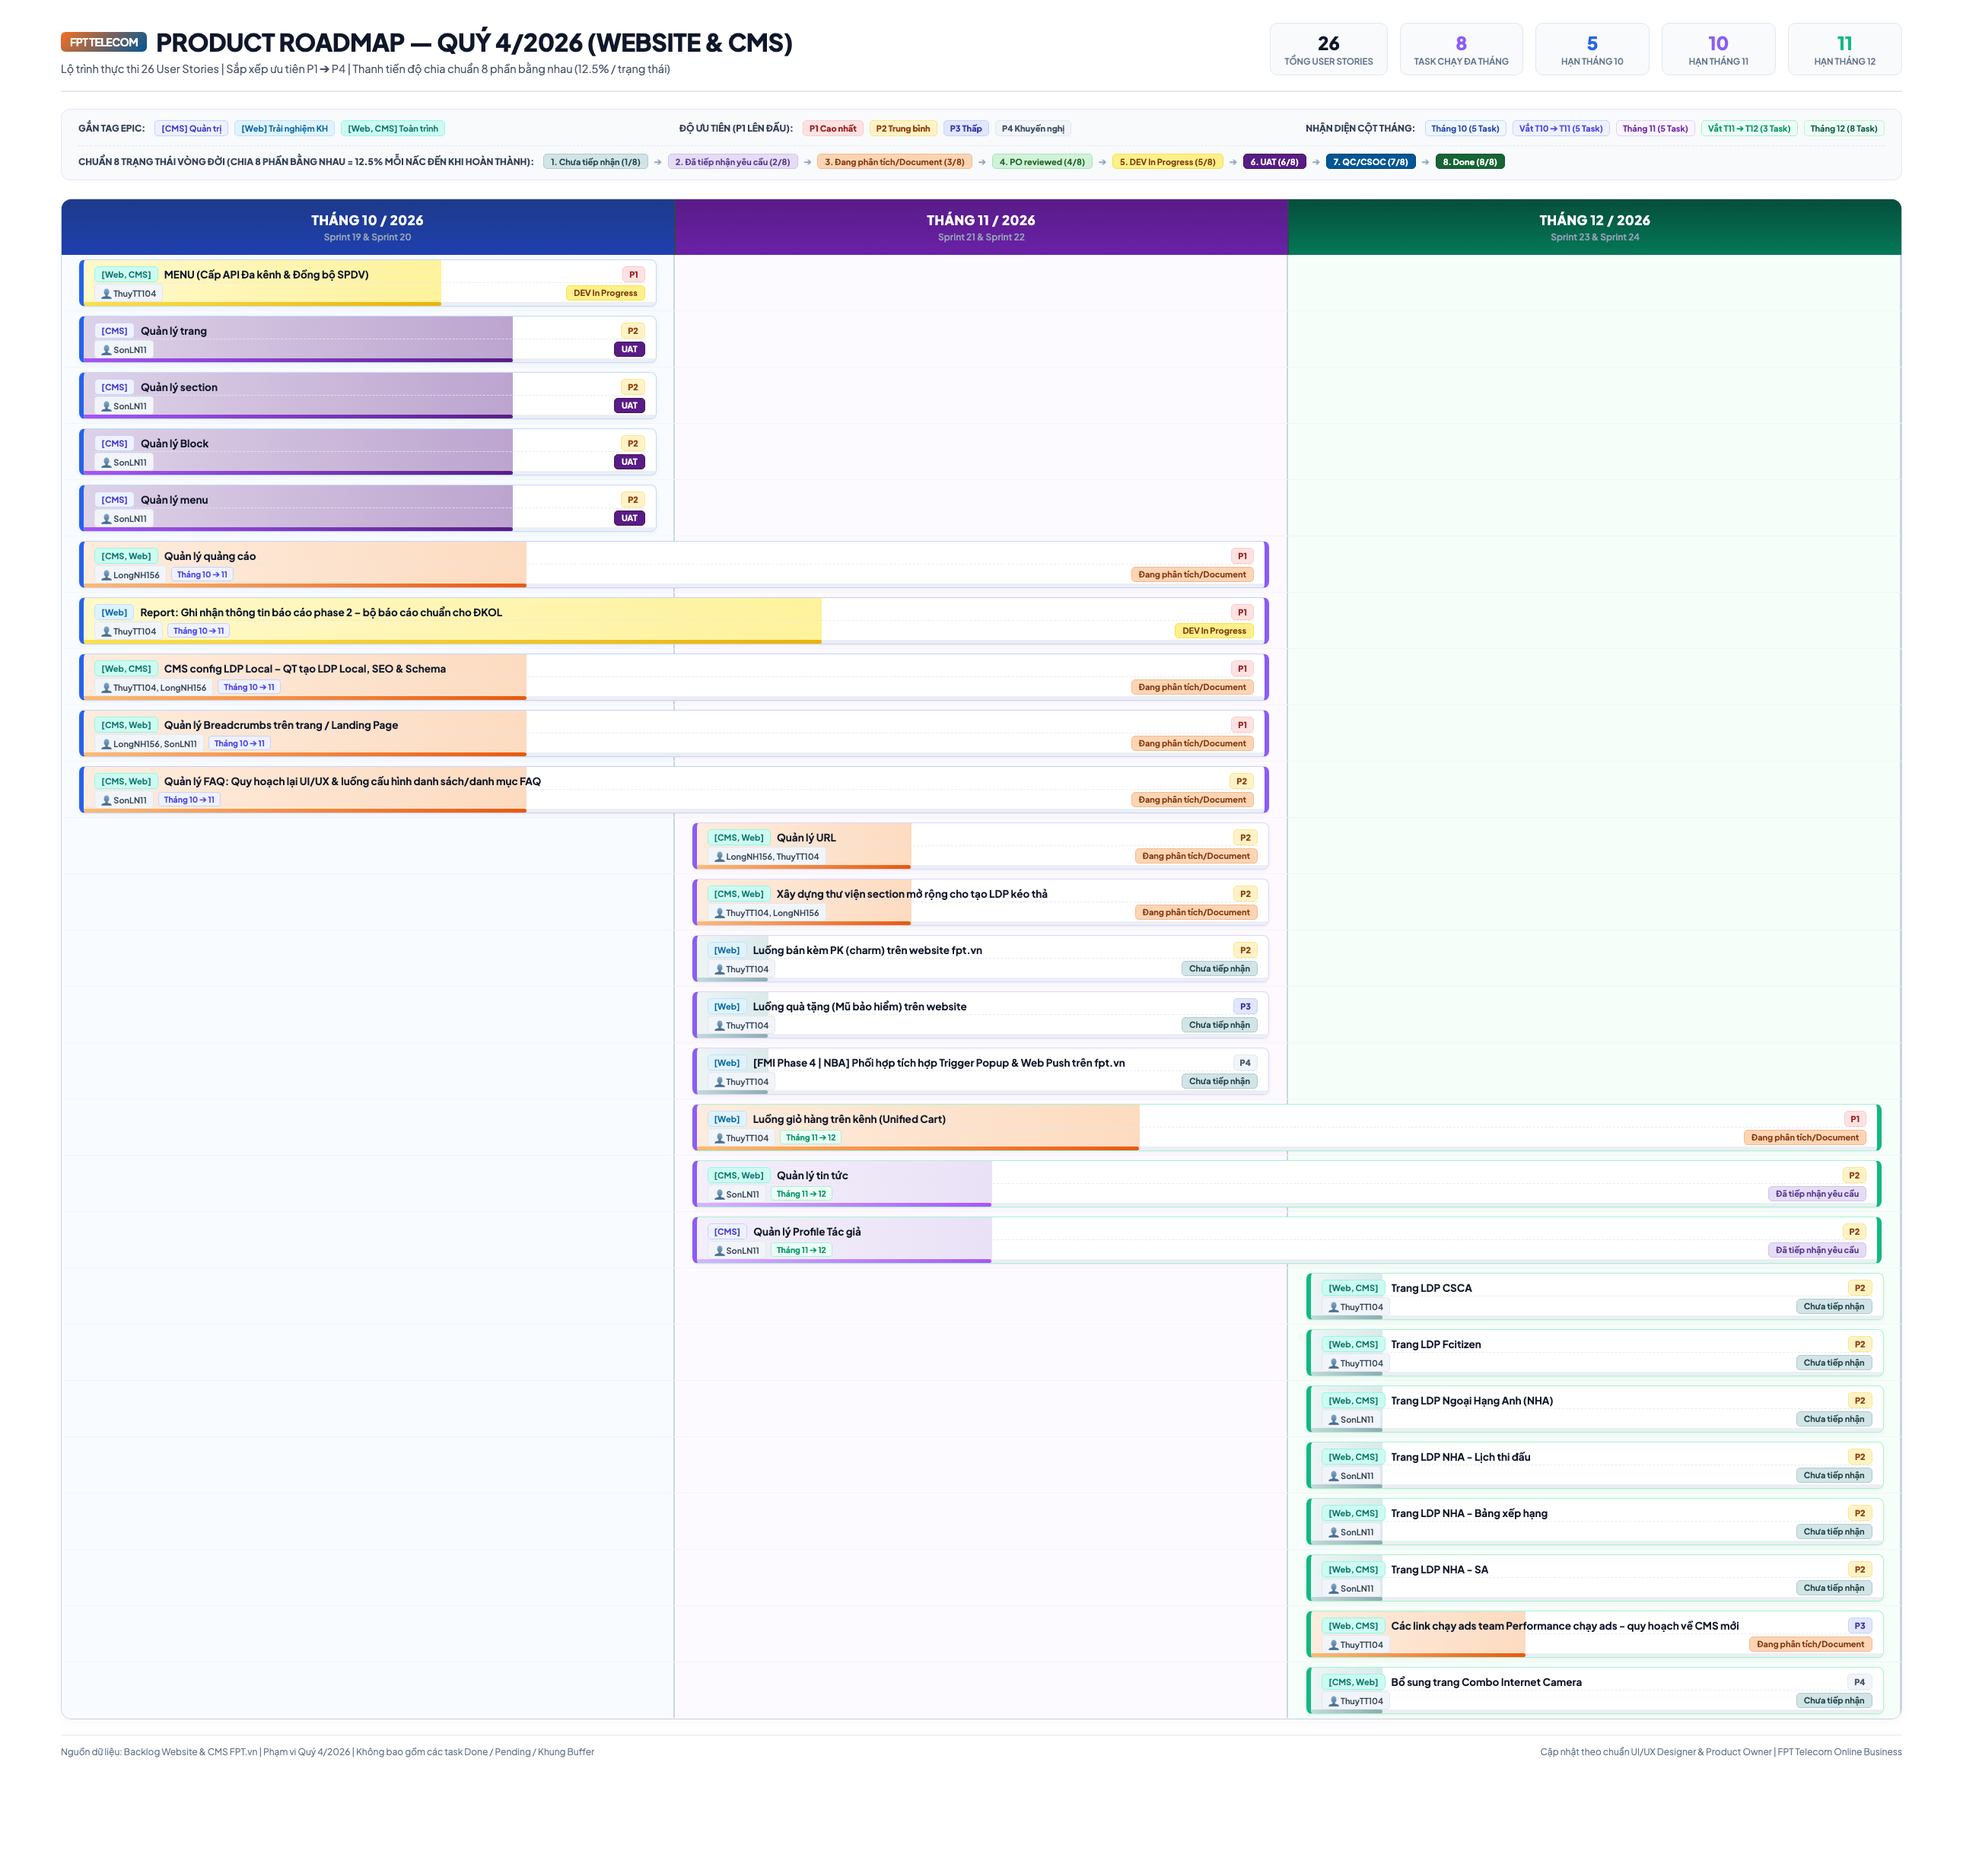
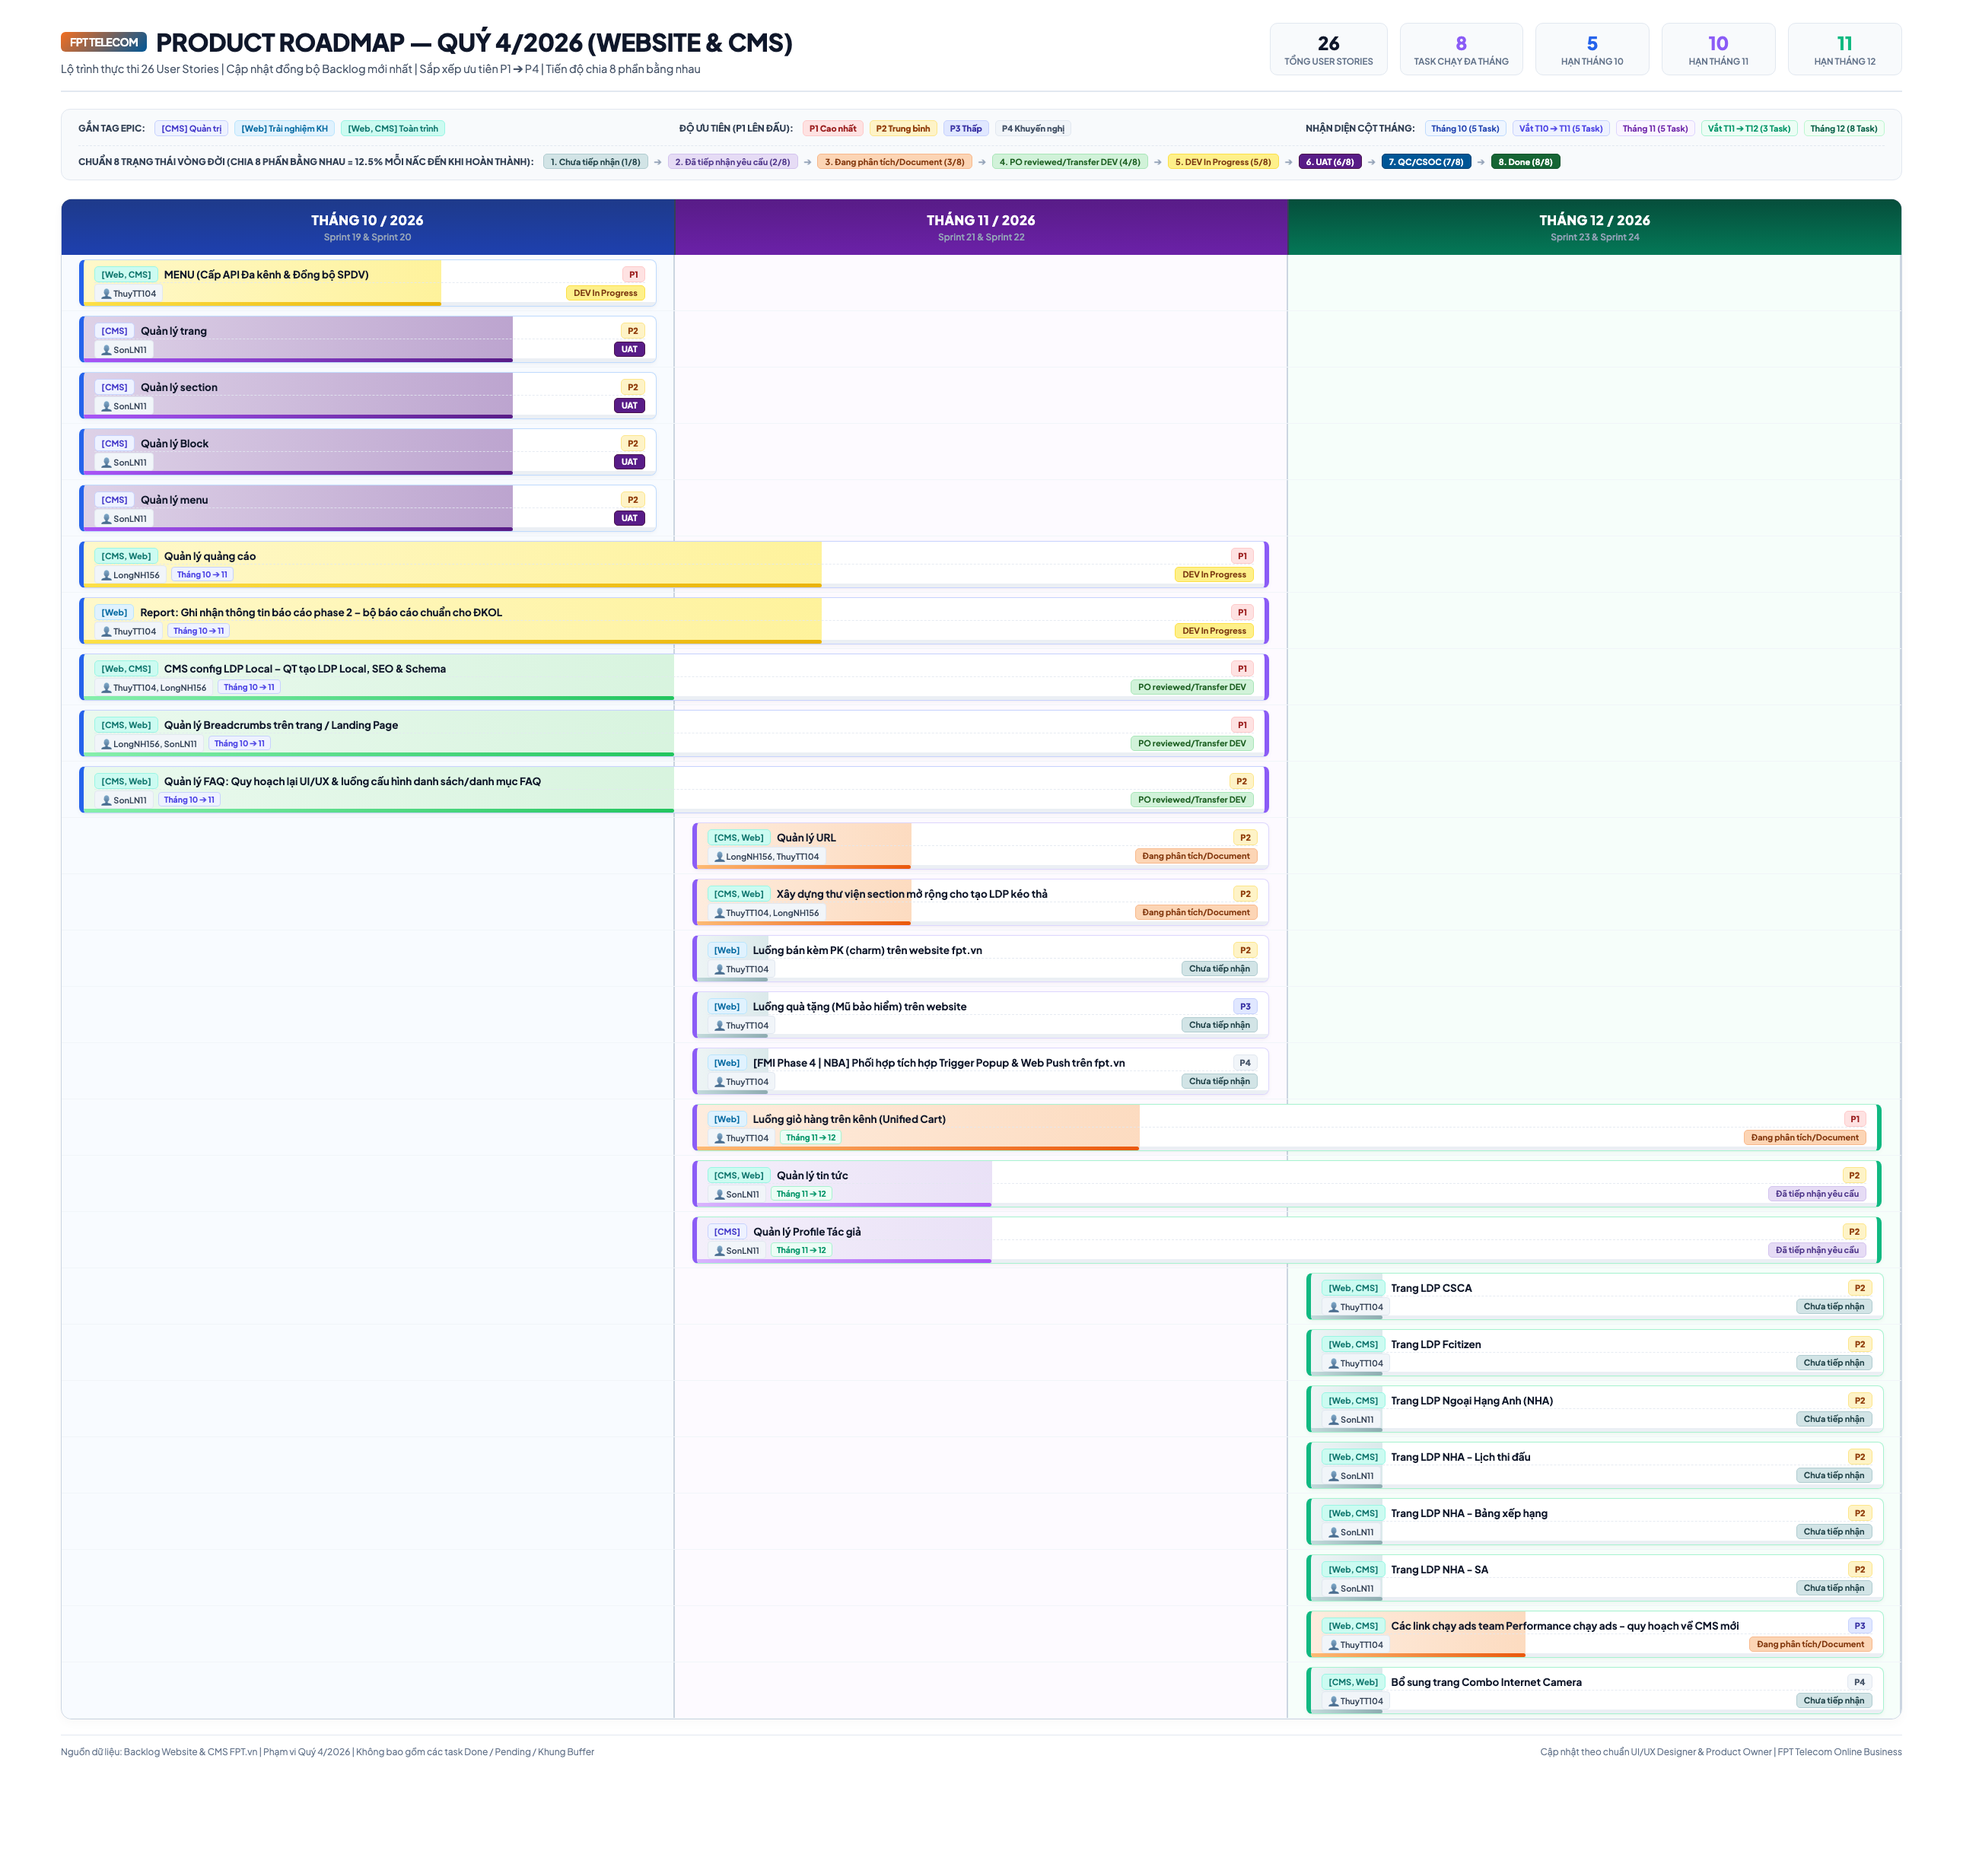
fix(roadmap): dong bo 100% trang thai moi nhat tu Google Sheet (PO reviewed/Transfer DEV va DEV In Progress)

diff --git a/thuyttdoc/roadmap_q4_2026.html b/thuyttdoc/roadmap_q4_2026.html
@@ -2,7 +2,7 @@
 <html lang="vi">
 <head>
 <meta charset="UTF-8">
-<title>Product Roadmap Q4/2026 - Timeline Tiến Trình Tháng (Chuẩn Tỷ Lệ 8 Phần Bằng Nhau)</title>
+<title>Product Roadmap Q4/2026 - Timeline Tiến Trình Tháng (Đồng Bộ Dữ Liệu Backlog Mới Nhất)</title>
 <style>
   @import url('https://fonts.googleapis.com/css2?family=Plus+Jakarta+Sans:wght@400;500;600;700;800&display=swap');
 
@@ -377,7 +377,7 @@
         <span class="fpt-badge">FPT TELECOM</span>
         PRODUCT ROADMAP — QUÝ 4/2026 (WEBSITE & CMS)
       </h1>
-      <p>Lộ trình thực thi 26 User Stories | Sắp xếp ưu tiên P1 ➔ P4 | Thanh tiến độ chia chuẩn 8 phần bằng nhau (12.5% / trạng thái)</p>
+      <p>Lộ trình thực thi 26 User Stories | Cập nhật đồng bộ Backlog mới nhất | Sắp xếp ưu tiên P1 ➔ P4 | Tiến độ chia 8 phần bằng nhau</p>
     </div>
     <div class="header-metrics">
       <div class="metric-card">
@@ -438,7 +438,7 @@
         <span class="step-arrow">➔</span>
         <span class="status-badge st-dang-phan-tich">3. Đang phân tích/Document (3/8)</span>
         <span class="step-arrow">➔</span>
-        <span class="status-badge st-po-reviewed">4. PO reviewed (4/8)</span>
+        <span class="status-badge st-po-reviewed">4. PO reviewed/Transfer DEV (4/8)</span>
         <span class="step-arrow">➔</span>
         <span class="status-badge st-dev-progress">5. DEV In Progress (5/8)</span>
         <span class="step-arrow">➔</span>
@@ -683,7 +683,7 @@
 
           <!-- Gantt Card Bar (2 Dòng, thanh tiến độ chia chuẩn đúng 8 phần bằng nhau, không hiện số %) -->
           <div class="gantt-card-wrap" style="left: 0.8%; width: 65.0%;">
-            <div class="task-card card-span-10-11" style="background-image: linear-gradient(90deg, rgba(252, 213, 181, 0.45) 0%, rgba(252, 213, 181, 0.85) 37.5%, rgba(255, 255, 255, 0) 37.5%);">
+            <div class="task-card card-span-10-11" style="background-image: linear-gradient(90deg, rgba(254, 240, 138, 0.45) 0%, rgba(254, 240, 138, 0.85) 62.5%, rgba(255, 255, 255, 0) 62.5%);">
               <!-- Dòng 1: [Tag Epic] Tên Task ... [Độ ưu tiên ở cuối dòng 1, KHÔNG TRÀN] -->
               <div class="card-line-1">
                 <div class="line-1-left">
@@ -702,13 +702,13 @@
                   <span class="cross-pill pill-10-11">Tháng 10 ➔ 11</span>
                 </div>
                 <div class="line-2-right">
-                  <span class="status-badge st-dang-phan-tich">Đang phân tích/Document</span>
+                  <span class="status-badge st-dev-progress">DEV In Progress</span>
                 </div>
               </div>
 
               <!-- Thanh tiến độ Gradient ở đáy thẻ (Đúng tỷ lệ 8 phần bằng nhau: 12.5% mỗi nấc, KHÔNG hiện %) -->
               <div class="task-progress-track">
-                <div class="task-progress-bar" style="width: 37.5%; background: linear-gradient(90deg, #FDBA74, #EA580C);"></div>
+                <div class="task-progress-bar" style="width: 62.5%; background: linear-gradient(90deg, #FDE047, #EAB308);"></div>
               </div>
             </div>
           </div>
@@ -765,7 +765,7 @@
 
           <!-- Gantt Card Bar (2 Dòng, thanh tiến độ chia chuẩn đúng 8 phần bằng nhau, không hiện số %) -->
           <div class="gantt-card-wrap" style="left: 0.8%; width: 65.0%;">
-            <div class="task-card card-span-10-11" style="background-image: linear-gradient(90deg, rgba(252, 213, 181, 0.45) 0%, rgba(252, 213, 181, 0.85) 37.5%, rgba(255, 255, 255, 0) 37.5%);">
+            <div class="task-card card-span-10-11" style="background-image: linear-gradient(90deg, rgba(209, 242, 217, 0.45) 0%, rgba(209, 242, 217, 0.85) 50%, rgba(255, 255, 255, 0) 50%);">
               <!-- Dòng 1: [Tag Epic] Tên Task ... [Độ ưu tiên ở cuối dòng 1, KHÔNG TRÀN] -->
               <div class="card-line-1">
                 <div class="line-1-left">
@@ -784,13 +784,13 @@
                   <span class="cross-pill pill-10-11">Tháng 10 ➔ 11</span>
                 </div>
                 <div class="line-2-right">
-                  <span class="status-badge st-dang-phan-tich">Đang phân tích/Document</span>
+                  <span class="status-badge st-po-reviewed">PO reviewed/Transfer DEV</span>
                 </div>
               </div>
 
               <!-- Thanh tiến độ Gradient ở đáy thẻ (Đúng tỷ lệ 8 phần bằng nhau: 12.5% mỗi nấc, KHÔNG hiện %) -->
               <div class="task-progress-track">
-                <div class="task-progress-bar" style="width: 37.5%; background: linear-gradient(90deg, #FDBA74, #EA580C);"></div>
+                <div class="task-progress-bar" style="width: 50%; background: linear-gradient(90deg, #86EFAC, #22C55E);"></div>
               </div>
             </div>
           </div>
@@ -806,7 +806,7 @@
 
           <!-- Gantt Card Bar (2 Dòng, thanh tiến độ chia chuẩn đúng 8 phần bằng nhau, không hiện số %) -->
           <div class="gantt-card-wrap" style="left: 0.8%; width: 65.0%;">
-            <div class="task-card card-span-10-11" style="background-image: linear-gradient(90deg, rgba(252, 213, 181, 0.45) 0%, rgba(252, 213, 181, 0.85) 37.5%, rgba(255, 255, 255, 0) 37.5%);">
+            <div class="task-card card-span-10-11" style="background-image: linear-gradient(90deg, rgba(209, 242, 217, 0.45) 0%, rgba(209, 242, 217, 0.85) 50%, rgba(255, 255, 255, 0) 50%);">
               <!-- Dòng 1: [Tag Epic] Tên Task ... [Độ ưu tiên ở cuối dòng 1, KHÔNG TRÀN] -->
               <div class="card-line-1">
                 <div class="line-1-left">
@@ -825,13 +825,13 @@
                   <span class="cross-pill pill-10-11">Tháng 10 ➔ 11</span>
                 </div>
                 <div class="line-2-right">
-                  <span class="status-badge st-dang-phan-tich">Đang phân tích/Document</span>
+                  <span class="status-badge st-po-reviewed">PO reviewed/Transfer DEV</span>
                 </div>
               </div>
 
               <!-- Thanh tiến độ Gradient ở đáy thẻ (Đúng tỷ lệ 8 phần bằng nhau: 12.5% mỗi nấc, KHÔNG hiện %) -->
               <div class="task-progress-track">
-                <div class="task-progress-bar" style="width: 37.5%; background: linear-gradient(90deg, #FDBA74, #EA580C);"></div>
+                <div class="task-progress-bar" style="width: 50%; background: linear-gradient(90deg, #86EFAC, #22C55E);"></div>
               </div>
             </div>
           </div>
@@ -847,7 +847,7 @@
 
           <!-- Gantt Card Bar (2 Dòng, thanh tiến độ chia chuẩn đúng 8 phần bằng nhau, không hiện số %) -->
           <div class="gantt-card-wrap" style="left: 0.8%; width: 65.0%;">
-            <div class="task-card card-span-10-11" style="background-image: linear-gradient(90deg, rgba(252, 213, 181, 0.45) 0%, rgba(252, 213, 181, 0.85) 37.5%, rgba(255, 255, 255, 0) 37.5%);">
+            <div class="task-card card-span-10-11" style="background-image: linear-gradient(90deg, rgba(209, 242, 217, 0.45) 0%, rgba(209, 242, 217, 0.85) 50%, rgba(255, 255, 255, 0) 50%);">
               <!-- Dòng 1: [Tag Epic] Tên Task ... [Độ ưu tiên ở cuối dòng 1, KHÔNG TRÀN] -->
               <div class="card-line-1">
                 <div class="line-1-left">
@@ -866,13 +866,13 @@
                   <span class="cross-pill pill-10-11">Tháng 10 ➔ 11</span>
                 </div>
                 <div class="line-2-right">
-                  <span class="status-badge st-dang-phan-tich">Đang phân tích/Document</span>
+                  <span class="status-badge st-po-reviewed">PO reviewed/Transfer DEV</span>
                 </div>
               </div>
 
               <!-- Thanh tiến độ Gradient ở đáy thẻ (Đúng tỷ lệ 8 phần bằng nhau: 12.5% mỗi nấc, KHÔNG hiện %) -->
               <div class="task-progress-track">
-                <div class="task-progress-bar" style="width: 37.5%; background: linear-gradient(90deg, #FDBA74, #EA580C);"></div>
+                <div class="task-progress-bar" style="width: 50%; background: linear-gradient(90deg, #86EFAC, #22C55E);"></div>
               </div>
             </div>
           </div>
